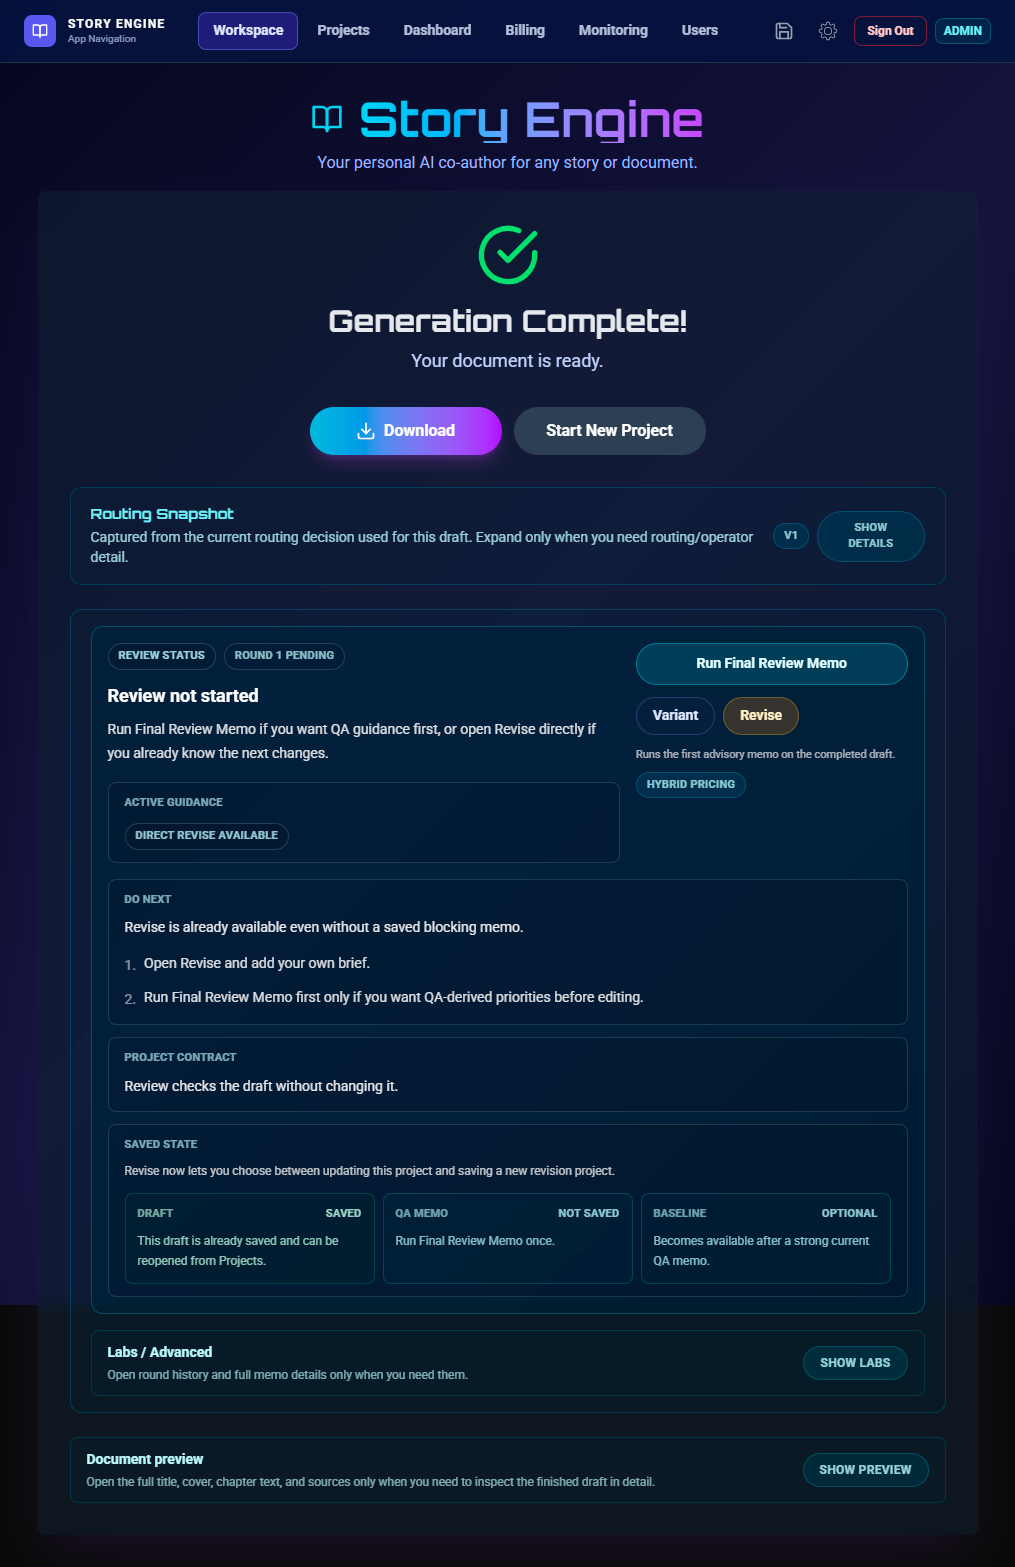
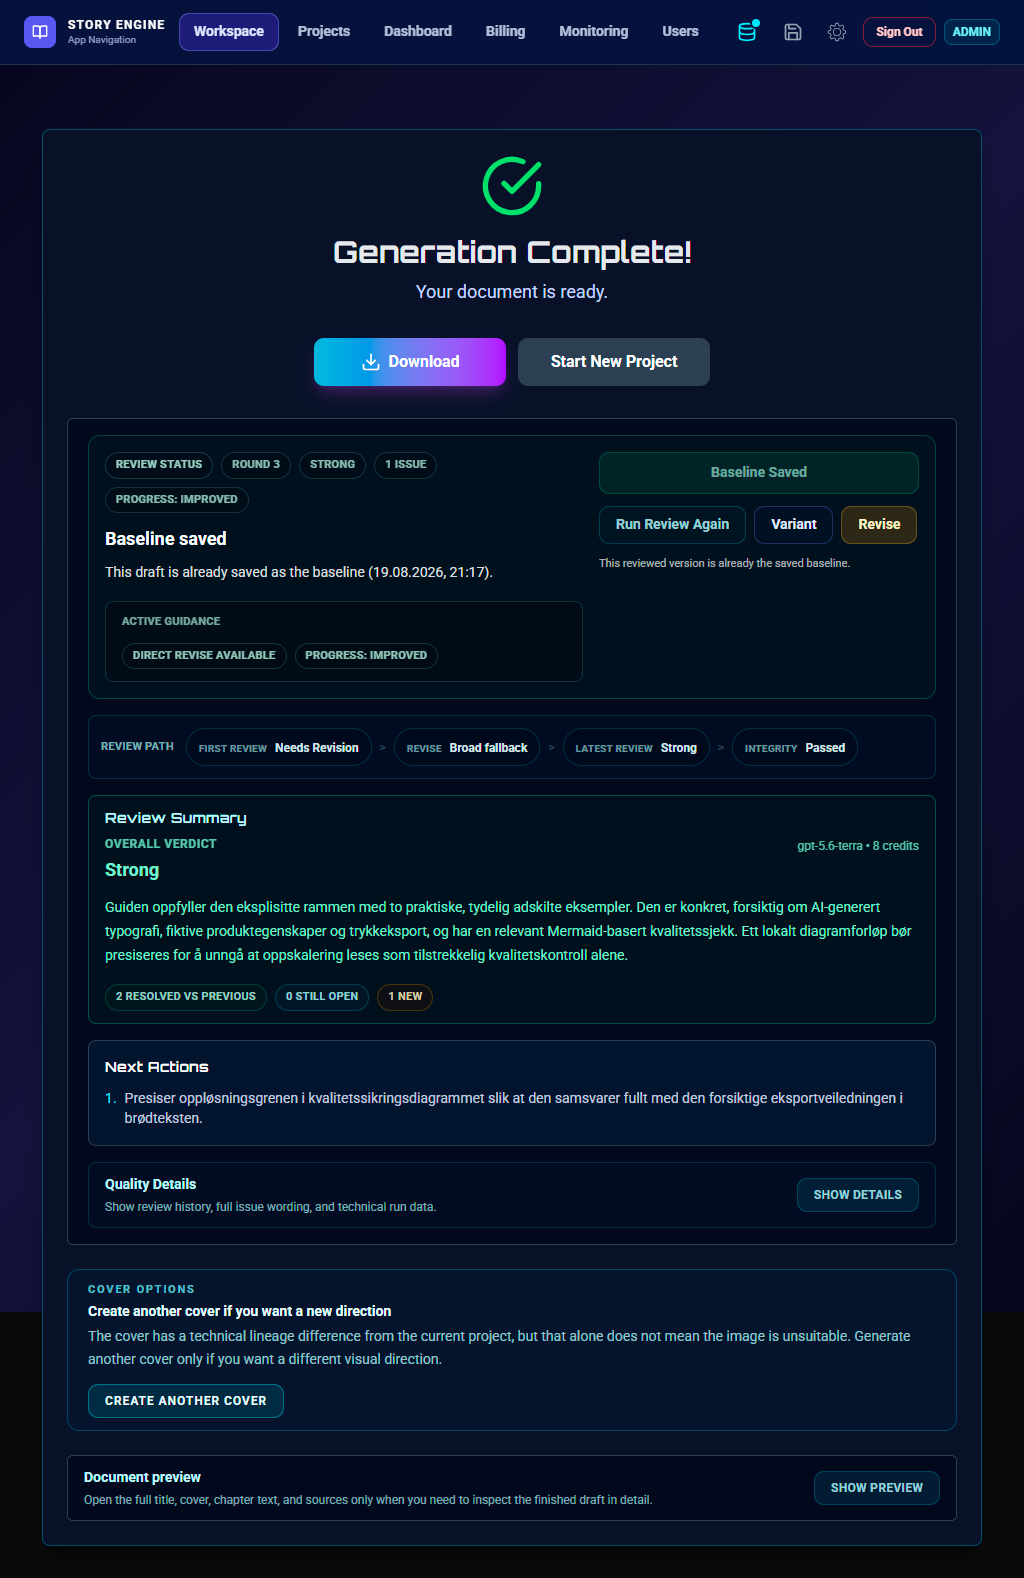
docs: Oppdatert README.md, CHANGELOG.md og ny processing-review.png

diff --git a/README.md b/README.md
@@ -4,7 +4,7 @@
 ![React](https://img.shields.io/badge/React-00599C?style=for-the-badge&logo=react&logoColor=white)
 ![TypeScript](https://img.shields.io/badge/TypeScript-007ACC?style=for-the-badge&logo=typescript&logoColor=white)
 ![Vite](https://img.shields.io/badge/Vite-646CFF?style=for-the-badge&logo=vite&logoColor=white)
-![Gemini 3.6 + 3.1 Pro](https://img.shields.io/badge/Gemini_3.6_%2B_3.1_Pro-8E75B2?style=for-the-badge&logo=google&logoColor=white)
+![Gemini 3.6 + 3.7 + 3.1 Pro](https://img.shields.io/badge/Gemini_3.6_%2B_3.7_%2B_3.1_Pro-8E75B2?style=for-the-badge&logo=google&logoColor=white)
 ![Vertex AI](https://img.shields.io/badge/Vertex_AI-4285F4?style=for-the-badge&logo=google-cloud&logoColor=white)
 ![OpenAI GPT-5.6](https://img.shields.io/badge/OpenAI_GPT--5.6-10A37F?style=for-the-badge&logo=openai&logoColor=white)
 ![Language Agnostic](https://img.shields.io/badge/Language_Agnostic-0F766E?style=for-the-badge&logo=translate&logoColor=white)
@@ -58,7 +58,7 @@
 
 *   🔁 **Samlet Revise-flyt**: `Revise` bruker lagret QA-memo når det finnes, prefiller revisjonsmål inn i arbeidsflaten, og lar deg enten oppdatere samme prosjekt eller lagre en ny revisjonsgren fra samme arbeidsflate.
 
-*   🔧 **Repair Sources / kildeforbedring**: Når QA finner kildegap kan Story Engine forsøke målrettet kildeforbedring før revisjon. Flyten mapper kilder til konkrete gap, bærer ulukkede gap inn i revision-briefen og stopper uten videre source-repair-belastning når sterke nok kilder ikke finnes.
+*   🔧 **Repair Sources / kildeforbedring**: Når QA finner kildegap kan Story Engine forsøke målrettet kildeforbedring før revisjon. Flyten mapper kilder til konkrete gap, bærer ulukkede gap inn i revision-briefen og stopper uten videre source-repair-belastning når sterke nok kilder ikke finnes. Source Harvest og Source Repair bruker Gemini 3.7 Flash bak separate, reversible serverflagg; Gemini 3.6 Flash er testet rollback for begge operasjonene.
 
 *   🎛 **Variant / Regenerate Outputs**: `Variant` gjenbruker samme prosjektprofil for illustrasjoner, audio og språkbytte. Medie-only-varianter kan oppdatere samme prosjekt og bevare eksisterende bilder når bare audio regenereres, mens språkbytte opprettes som nytt prosjekt. Språkvarianter kan arve sterk/baseline-lagret review-status når kildegrunnlag og evidenskontrakt bevares, og add-on preflight skiller hard minimum fra anbefalt buffer for media-kostnader.
 
@@ -78,7 +78,7 @@
 
 *   💬 **Kontekstuelle hjelpetekster**: Startskjermen viser korte hjelpetekster for `Upload Files`, `Final Quality Pass` og kredittestimat/balanse i både Simple og Custom, inkludert kostnads-/kvalitetsavveiing og sikkerhetsforbehold for opplastet media.
 
-*   🧭 **Intelligent Model Routing**: Automatisk valg av optimal AI-modell basert på prosjektets `category`, `genre`, `creativity`-nivå, og om det er fiction eller non-fiction. Produksjonsstandardene er Gemini 3.6 Flash for planlegging, source harvest og støtteoperasjoner, Gemini 3.1 Pro Preview for seksjonsgenerering, GPT-5.6 Terra for Final Review og GPT-5.6 Luna for Final Revision. Routing-logikken lever i delte server-side kontrakter; modellkatalogen i Monitoring er beskrivende og kan ikke alene bytte en betalt produksjonsrute.
+*   🧭 **Intelligent Model Routing**: Automatisk valg av optimal AI-modell basert på prosjektets `category`, `genre`, `creativity`-nivå, og om det er fiction eller non-fiction. Produksjonsstandardene er Gemini 3.6 Flash for planlegging og generelle støtteoperasjoner, Gemini 3.7 Flash for Source Harvest og Source Repair, Gemini 3.1 Pro Preview for seksjonsgenerering, GPT-5.6 Terra for Final Review og GPT-5.6 Luna for Final Revision. 3.7-rutene er operasjonsspesifikke, serverstyrte og kan rulles tilbake uavhengig til Gemini 3.6. Routing-logikken lever i delte server-side kontrakter; modellkatalogen i Monitoring er beskrivende og kan ikke alene bytte en betalt produksjonsrute.
 
 *   💾 **Local-first persistence v2**: Prosjekttekst og media lagres i eier- og prosjektavgrensede IndexedDB-records med Blob-baserte medieposter, content hashes, writer lease, atomiske checkpoints og sikker resume. Brukeren kan inspisere lokal status, ta backup, gjenopprette som en ny lokal kopi, rydde media eller prosjektdata eksplisitt og åpne legacy-utkast i read-only recovery uten automatisk å tilordne uverifisert eierskap.
 
@@ -205,23 +205,27 @@ Den samme startsiden er også tilpasset mobil, slik at brukeren kan starte et pr
 <summary><strong>Klikk for å se Workspace: genereringen i sanntid</strong></summary>
 
 ### Generation Progress
-Noen trinn før genereringen, her foregår researchingen.
+Før seksjonene skrives, analyserer Story Engine prosjektet og henter inn relevant research. I `Drafting`-fasen utvikles tittel, sammendrag og eventuell karakterstruktur, mens fremdriftsindikatoren viser hvilke forberedende trinn som er fullført og hva som gjenstår.
 
 ![Generation Progress](public/processing.png)
 
-Hvor magien skjer. Her ser brukeren innholdet bli skapt i sanntid, med levende oppdateringer.
+Når `Writing` starter, samles prosjektets tittel, sammendrag og forskningskilder i arbeidsflaten. Brukeren ser den samlede fremdriften, hvilke seksjoner som gjenstår, og en forhåndsvisning av seksjonsplanen mens teksten blir skrevet.
 
 ![Generation Progress](public/generation-progress.png)
 
-Her kan man følge skrivingen seksjon for seksjon etter hvert som den skrives.
+Etter hvert markeres ferdige seksjoner tydelig, fremdriftslinjen oppdateres, og innholdet kan leses direkte i arbeidsflaten. Eksemplet viser fire av fem ferdige seksjoner og at arbeidet fortsetter fra den siste som gjenstår.
 
 ![Generation Progress](public/generation-progress-2.png)
 
-Når førsteutkastet er skrevet ferdig, går flyten videre til `Final Quality Pass`. Her kan Story Engine først kjøre et QA Review, stoppe direkte hvis utkastet allerede er sterkt nok, eller gjøre en målrettet revisjon før en ny sluttkontroll. Brukeren ser dermed at systemet ikke bare produserer tekst, men også jobber videre med kvalitetssikring før prosjektet avsluttes.
+Når førsteutkastet er ferdig, starter `Final Quality Pass` med et QA Review av den genererte teksten. Faseindikatoren viser at prosjektet er i `Review`, og at ferdig tekst og eksisterende mediesjekkpunkter bevares mens vurderingen pågår.
+
+![Processing Review](public/processing-review.png)
+
+Hvis reviewet finner forhold som bør forbedres, går kvalitetspasset videre til `Revision`. I eksemplet reparerer Story Engine kildedekningen før kontraktskontroll og eventuell medieproduksjon. Også her bevares fullført tekst og mediesjekkpunkter, mens avbryt-knappen bare stopper arbeidet som gjenstår.
 
 ![Processing Revise](public/processing-revise.png)
 
-Til slutt havner prosjektet i ferdigvisningen. Her er genereringen fullført, og brukeren kan gå videre til eksport, åpning av prosjektet, nye varianter eller senere revisjon.
+Når hele flyten er fullført, viser ferdigvisningen både resultatet og kvalitetsstatusen. Her kan brukeren se lagret baseline, review-forløp, sammendrag og neste anbefalte tiltak, åpne kvalitetsdetaljene eller dokumentforhåndsvisningen, og velge `Run Review Again`, `Variant` eller `Revise`. Prosjektet kan også lastes ned, eller brukeren kan starte et nytt prosjekt.
 
 ![Generation Complete](public/generation-complete.png)
 </details>
@@ -1055,7 +1059,7 @@ Prosjektet har gjennomgått en omfattende refaktorering for å øke vedlikeholdb
 │   ├── smoke-final-review-prompt-contract.ts # Smoke-test av final-review prompt-kontrakt
 │   ├── smoke-focused-quality-scenarios.ts    # Focused quality scenario-røykprøver
 │   ├── smoke-generation-credit-estimates.ts  # Smoke-test av add-on/TTS kredittestimater
-│   ├── smoke-gemini36-model-evaluation-canary.ts # Guard for avgrensede Gemini 3.6 eval-armer
+│   ├── smoke-gemini36-model-evaluation-canary.ts # Guard for avgrensede Gemini 3.6/3.7 eval- og promotion-armer
 │   ├── smoke-gpt56-migration-foundation.ts   # Guard for GPT-5.6 produksjons- og recovery-ruter
 │   ├── smoke-human-nuance-default-matrix.ts  # Default-matrise for human-nuance
 │   ├── smoke-human-nuance-modes.ts           # Test av human-nuance prompt-modi
@@ -1535,7 +1539,7 @@ Prosjektet har gjennomgått en omfattende refaktorering for å øke vedlikeholdb
 * `shared/suggestSettings/*`: Felles heuristikker og normalisering for `Suggest Settings`, slik at frontend og edge holder samme tolkningsregler.
 * `shared/routing/*`: Intelligent model routing-motor som velger optimal AI-modell basert på oppgavetype, kategori, kreativitet og genre.
 * `shared/modelRegistry.ts`: Statisk, beskrivende modellkatalog for provider, pris, status og kontrollsjekker. Katalogoppføringer aktiverer aldri en betalt runtime-rute alene; modellbytter krever evalueringsplan, eksplisitt server-side aktivering og testet rollback.
-* `shared/paidFlowModelDefaults.ts`: Kanonisk oversikt over aktive betalte produksjonsruter. Plan/source/support bruker Gemini 3.6 Flash, seksjoner bruker Gemini 3.1 Pro Preview, Final Review/Revision bruker GPT-5.6 Terra/Luna, og flag-off recovery kan ikke reaktivere pensjonerte GPT-5.4/GPT-5.5-ruter.
+* `shared/paidFlowModelDefaults.ts` og `shared/geminiTextModels.ts`: Kanoniske modell-ID-er, produksjonsbaselines og resolver-kontrakter. Planlegging og support bruker Gemini 3.6 Flash, de separat flaggstyrte Source Harvest/Repair-rutene bruker Gemini 3.7 Flash med 3.6 som rollback, seksjoner bruker Gemini 3.1 Pro Preview, og Final Review/Revision bruker GPT-5.6 Terra/Luna. Flag-off recovery kan ikke reaktivere pensjonerte GPT-5.4/GPT-5.5-ruter.
 * `shared/radioPlayNarrator.ts`: Normaliserer språkvarianter og generiske narrator-aliaser til én kanonisk forteller uten å slå sammen en eksplisitt navngitt karakter ved en feil.
 * `shared/billing/*`: Produktpolicy og tier-presets (`productPolicy.ts`, `tierPresets.ts`) som definerer kredittregler, utløpspolicyer og tier-grenser.
 * `services/generationCredits.ts`: Klientestimat for core generation og eksisterende-draft add-ons. TTS add-on-estimat skiller hard minimum basert på eksisterende script-linjer fra anbefalt buffer for lange linjer og retry/splitting.
@@ -1658,7 +1662,15 @@ Bytt ut siste kommando for andre sjekker, for eksempel `npm run build`, `npm run
     # supabase secrets set GOOGLE_SERVICE_ACCOUNT_JSON='<service-account-json>'
     # optional source verification rollout telemetry:
     # supabase secrets set ENABLE_VERIFIED_SOURCES_V2_SHADOW=true
+    # evaluated, independently reversible Gemini 3.7 source routes:
+    # supabase secrets set SOURCE_HARVEST_GEMINI37_GLOBAL_ENABLED=true
+    # supabase secrets set SOURCE_REPAIR_GEMINI37_GLOBAL_ENABLED=true
     ```
+
+    Source-flaggene aktiverer bare den navngitte operasjonen. Plan Generation og
+    generelle support-ruter forblir på Gemini 3.6 Flash, og `false` ruller den
+    aktuelle source-ruten tilbake til den testede 3.6-baselinen. Gemini 3.7
+    normaliserer arvet `minimal` thinking til laveste støttede nivå, `low`.
 
     Stripe bruker egne Supabase secrets for checkout, abonnement, portal og webhook.
     Test/sandbox kan fortsatt bruke testnøkler. Før ekte betaling skal live-gaten slås på
@@ -1881,8 +1893,12 @@ Kortversjon av siste endringer. Kurert endringshistorikk finnes i `CHANGELOG.md`
 - 🖼 **Visuell karakterkontinuitet**: Gjentakende karakterer fikk sterkere identity anchors og kontinuitetsinstruksjoner på tvers av cover og seksjonsbilder.
 - 📚 **README og releasehistorikk**: README fikk språk-/objektagnostiske badges, variant-/eksportstatus, roadmap-status og månedlig changelog. Den tekniske juli-historikken er nå også etterført i `CHANGELOG.md`.
 
-### Siste endringer August 2026 (per 7. august)
-- 🤖 **Gemini 3.6 i produksjon**: Planlegging, source harvest og støtteoperasjoner bruker Gemini 3.6 Flash. Gemini 3 Flash er fjernet fra aktive ruter etter utvidet kvalitets-, kilde-, kost-, latency- og billing-evaluering.
+### Siste endringer August 2026 (per 21. august)
+- 🤖 **Operasjonsspesifikk Gemini 3.7-promotering**: Source Harvest og Source Repair bruker Gemini 3.7 Flash bak uavhengige serverflagg etter frosne holdouts, produksjonscanary, latency-/kostmåling, billing-kontroll og verifisert flagg-av-rollback. Plan Generation og generelle support-ruter forblir på Gemini 3.6 Flash; seksjonsgenerering forblir på Gemini 3.1 Pro Preview. Hele beslutningsgrunnlaget finnes i den [arkiverte evalueringsplanen](docs/plans/archived/gemini-3-7-flash-evaluation-plan-2026-08-17.md).
+- 🔎 **Strengere kilde- og evidenskontrakter**: Source harvest/repair skalerer mål etter dokumentlengde, bevarer verifisert lineage, mapper kilder til konkrete seksjoner og skiller synlige kilder fra skjult operativ metadata. RFC-er og tilsvarende autoritative publikasjoner klassifiseres korrekt uten domenespesifikk hardkoding.
+- 🧩 **Korte og selvstendige dokumenter**: Planlegging, generering og Final Review skiller nå mellom `no-web`, selvstendig/illustrativ veiledning og lukket brukerlevert evidens. Manglende eksternt kildemateriale skal ikke fylle guider, matriser eller diagrammer med gjentatte `[Uavklart]`-plassholdere når oppgaven tillater pedagogiske eksempler.
+- 🛠 **Revisjonsgjenoppretting for lange dokumenter**: Mixed-scope, localized patch-only og issue-complete recovery bevarer urørte seksjoner, isolerer strenge kildekontrakter og kan eskalere avgrensede strukturelle leveranser uten å gjøre samme brede revisjon om igjen. Uttømte eller flat/regresserte forsøk stoppes fail-closed med draft, QA-baseline og reservasjoner bevart.
+- 🧼 **Semantisk Mermaid-reparasjon**: Automatisk diagramreparasjon beholder nå meningsbærende relasjoner og avviser syntaktisk gyldige, men semantisk degraderte erstatninger; bekreftede eval-fixtures fryser forventet resultat.
 - 🧠 **GPT-5.6 fullført modellbytte**: Final Review bruker GPT-5.6 Terra/`high`, Final Revision bruker GPT-5.6 Luna/`xhigh`, og flag-off recovery holder seg i GPT-5.6-familien. GPT-5.4 og GPT-5.5 er deaktivert som runtime-, fallback- og rollback-ruter.
 - 📻 **Radio Play-hardening**: Suggest Settings kan velge Radio Drama uavhengig av Radio Play-checkboxen, seksjonsprompten håndhever rolle-/dialogkontrakten, og narrator-aliaser dedupliseres til én kanonisk forteller i casting og TTS.
 - 🎧 **Text-first mediarekkefølge**: Final Quality Pass og den deterministiske Radio Play-kontrakten fullfører den kanoniske teksten før lydproduksjon. `MediaAuthorization`, text hash/version og serverautoritativ orkestrering feiler lukket ved stale review, lineage-avvik eller ukjent provider-/billingstatus.

diff --git a/CHANGELOG.md b/CHANGELOG.md
@@ -12,12 +12,52 @@ releasehistorikk der semantisk versjonering ikke er praktisk.
 
 ## [Unreleased]
 
+### Added
+- Separate, server-side produksjonsflagg for Gemini 3.7 Flash i Source Harvest
+  og Source Repair, med operasjonsspesifikk telemetri, allowlistede eval-armer
+  og Gemini 3.6 Flash som eksplisitt rollback.
+- Frosne og uavhengige Gemini 3.7-evalueringsfixtures for Plan Generation,
+  Source Harvest, Source Repair og support-ruter, inkludert kost/latens,
+  providerfeil, billing/idempotens og manuell kontraktskontroll.
+- Typed, issue-complete og localized patch-only recovery for revisjoner som har
+  stoppet på flat/regressert QA eller seksjoner utenfor lengdekontrakten.
+
 ### Changed
+- Gemini 3.7 Flash er aktivert bare for Source Harvest og Source Repair etter
+  dokumenterte holdouts og produksjonscanary. Plan Generation og generelle
+  support-ruter forblir på Gemini 3.6 Flash, og seksjonsgenerering forblir på
+  Gemini 3.1 Pro Preview.
+- Kildekrav og dekningsmål skaleres etter dokumentlengde og eksplisitt scope.
+  Verifisert source lineage og seksjonstilknytning bevares gjennom harvest,
+  repair, Review, Revision og eksport uten å gjøre skjult metadata lesersynlig.
+- Final Review og Final Revision skiller tydeligere mellom ordinære editoriske
+  mangler, grounding-problemer, lukkede brukerpremisser og selvstendige
+  illustrative dokumenter før repair-strategi og rewrite-styrke velges.
 - Final Quality Pass-flyten viser ikke lenger overflødige forklaringer om den
   etablerte text-first-medieordenen, og Enhanced Radio Play-kost-/statusflater
   bruker igjen appens engelske standardspråk uavhengig av dokumentspråket.
 
 ### Fixed
+- Korte, selvstendige guider og andre `no-web`-dokumenter fylles ikke lenger med
+  gjentatte `[Uavklart]`-plassholdere bare fordi prompten ikke inneholder et
+  eksternt kildedatasett. Pedagogiske eksempler og valg kan brukes når den
+  avledede dokumentkontrakten tillater det, mens faktiske kildepåstander fortsatt
+  må følge evidence-policyen.
+- Lange strukturelle leveranser kan utvide eksplisitte profil-/matriseseksjoner
+  innen avgrensede kontrakter, mens strenge grounding-seksjoner beholder egne
+  no-growth-/source-regler og unrelated seksjoner forblir frosset.
+- Source Repair kan fortsette etter oppdatert source-policy, bevarer annonsert
+  recovery-scope og stopper korrekt ved provider-/workerfeil uten belastning
+  eller skjult fallback. Kortformede prosjekter arver ikke lenger kildeantall
+  eller seksjonsdekning beregnet for lange dokumenter.
+- Verifiserte forskningskilder, kildeautoritet og URL-er bevares gjennom Review
+  og Revision, samtidig som leserforbud mot rå eller skjulte source-instrukser
+  håndheves i tekst og eksport. Autoritative RFC-publikasjoner klassifiseres som
+  sterke kilder etter generelle metadata- og publikasjonssignaler.
+- Gemini 3.7 arver ikke det ugyldige thinking-nivået `minimal`; serveren
+  normaliserer det til modellens laveste støttede nivå, `low`.
+- Mermaid-reparasjon avviser semantisk degraderte kandidater selv når syntaksen
+  er gyldig, og bevarer meningsbærende noder, kanter og modalitet.
 - Frittstående, bracketede Radio Play-produksjonsmarkører blir ikke lenger
   feiltolket som ulabelede replikker av den deterministiske medieporten. De
   beholdes i manus og eksport, men utelates fra TTS-turns; ordinær ulabelet tekst
@@ -34,8 +74,10 @@ releasehistorikk der semantisk versjonering ikke er praktisk.
   ferdig tekst og retrybar media-orchestration bevares.
 
 ### Documentation
-- README og den kuraterte releasehistorikken er ajourført gjennom 7. august
-  2026, inkludert den fullførte Lyria-/Enhanced Radio Play-integrasjonen.
+- README og den kuraterte releasehistorikken er ajourført gjennom 21. august
+  2026. [Gemini 3.7-evalueringsplanen](docs/plans/archived/gemini-3-7-flash-evaluation-plan-2026-08-17.md)
+  er arkivert med beslutningsgrunnlag, produksjonsaktivering og testet rollback
+  for begge source-operasjonene.
 
 ---
 
